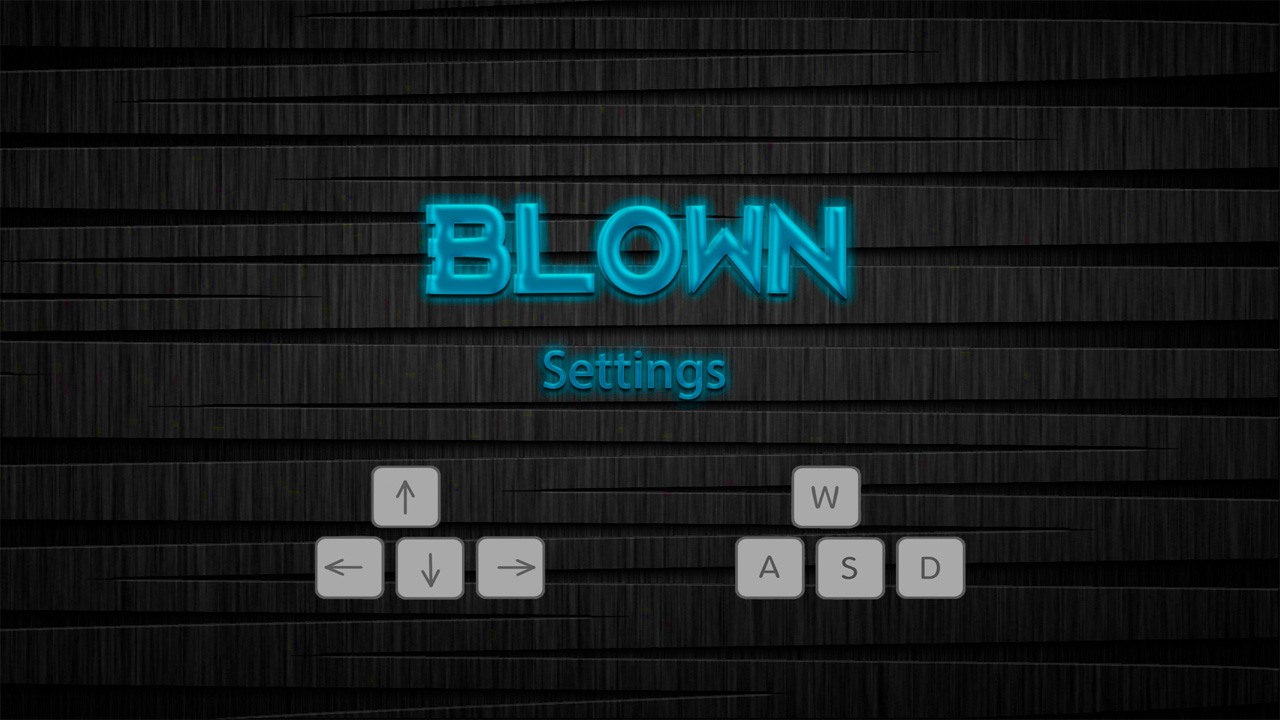
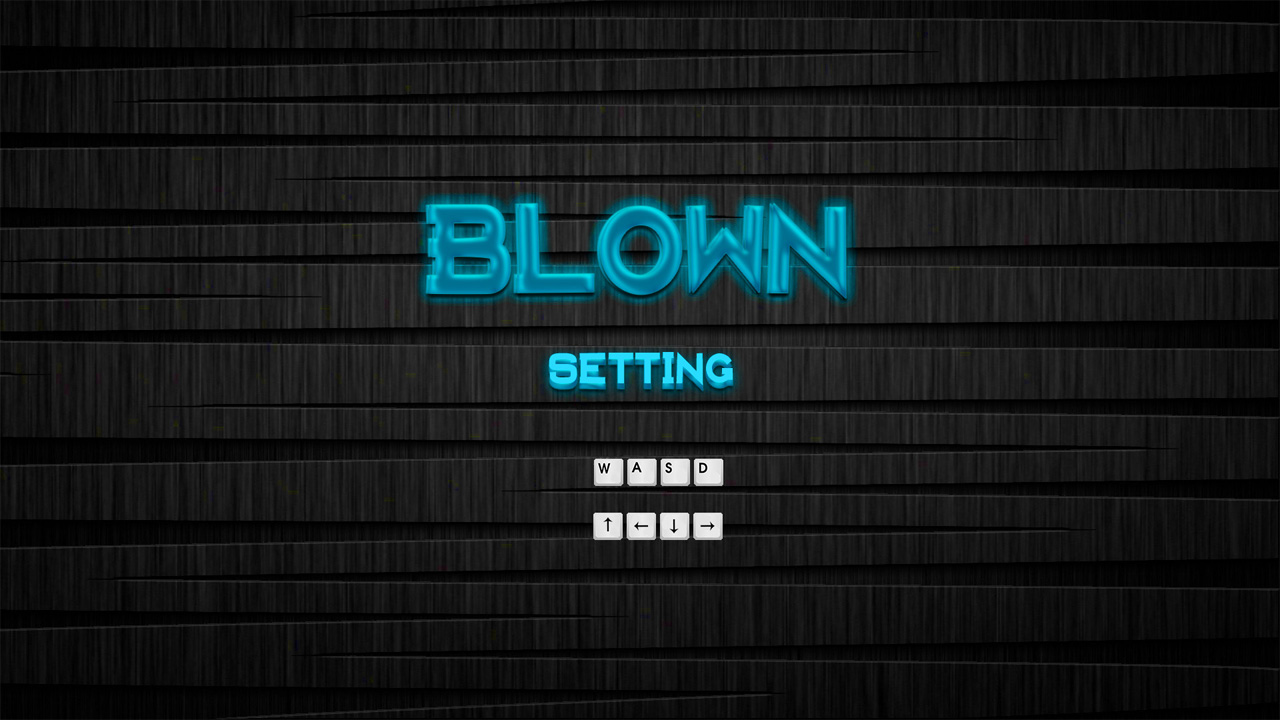
setting and statistic change images

diff --git a/src/main/resources/styles/setting.css b/src/main/resources/styles/setting.css
@@ -6,29 +6,3 @@
 .root {
      -fx-background-image: url("/images/setting.jpg");
 }
-.button {
-    -fx-font-family:AVENTURA;
-    -fx-font-size:100pt;
-    -fx-padding: 8 15 15 15;
-    -fx-background-insets: 0,0 0 5 0, 0 0 6 0, 0 0 7 0;
-    -fx-background-radius: 8;
-    -fx-background-color:
-       linear-gradient(from 0% 93% to 0% 100%, #06495C 0%, #06495C 100%),
-       #007090,
-       #007090,
-       radial-gradient(center 50% 50%, radius 100%, #007090, #007090);
-    -fx-effect: dropshadow( gaussian , rgba(0,0,0,0.75) , 4,0,0,1 );
-    -fx-font-weight: bold;
-    -fx-font-size: 1.1em;
-}
-.button:hover {
-    -fx-background-color:
-        linear-gradient(from 0% 93% to 0% 100%, #007090 0%, #007090 100%),
-        #007090,
-        #007090,
-        radial-gradient(center 50% 50%, radius 100%, #12A4CC, #12A4CC);
-}
-.button:pressed {
-    -fx-padding: 10 15 13 15;
-    -fx-background-insets: 2 0 0 0,2 0 3 0, 2 0 4 0, 2 0 5 0;
-}

diff --git a/src/main/java/start/Setting.java b/src/main/java/start/Setting.java
@@ -1,15 +1,20 @@
 package start;
 
-import javafx.event.Event;
+
+import controllers.SettingController;
 import javafx.event.EventHandler;
-import javafx.event.EventType;
+import javafx.fxml.FXML;
 import javafx.fxml.FXMLLoader;
 import javafx.scene.Parent;
 import javafx.scene.Scene;
+import javafx.scene.control.RadioButton;
 import javafx.scene.input.KeyCode;
 import javafx.scene.input.KeyEvent;
 
+import java.io.File;
+import java.io.FileNotFoundException;
 import java.io.IOException;
+import java.io.PrintWriter;
 
 /**
  * Created by Егор on 29.02.2016.
@@ -38,6 +43,17 @@ public class Setting {
         sceneSetting.setOnKeyPressed(new EventHandler<KeyEvent>() {
             public void handle(KeyEvent event) {
                 if(event.getCode()== KeyCode.ESCAPE){
+//                    String radioBtn = new SettingController().checkRadioBtn();
+//                    System.out.println(radioBtn);
+//                    try {
+//
+//                        PrintWriter writer = new PrintWriter(new File("/files/setting.txt"));
+//                        writer.write(radioBtn);
+//                        writer.close();
+//                    } catch (FileNotFoundException e) {
+//                        System.out.println("рпоблемы при записи в файл");
+//                    }
+
                     Parent root = null;
                     try {
                         root = FXMLLoader.load(getClass().getResource("/fxml/main.fxml"));

diff --git a/src/main/java/start/MainApp.java b/src/main/java/start/MainApp.java
@@ -4,9 +4,7 @@ package start;
  * Created by 4 on 28.02.2016.
  */
 import javafx.application.Application;
-import javafx.event.Event;
 import javafx.event.EventHandler;
-import javafx.event.EventType;
 import javafx.fxml.FXMLLoader;
 import javafx.scene.Parent;
 import javafx.scene.Scene;
@@ -24,20 +22,21 @@ public class MainApp extends Application {
         Parent root = FXMLLoader.load(getClass().getResource("/fxml/main.fxml"));
         Scene scene = new Scene(root, 1280, 670);
 
-
+        stage.setMinWidth(1280);
+        stage.setMinHeight(670);
         primaryStage.setResizable(false);
         scene.getStylesheets().add("/styles/main.css");
         stage.setTitle("BLOWN");
         stage.setScene(scene);
 
 
-        scene.setOnKeyPressed(new EventHandler<KeyEvent>() {
-            public void handle(KeyEvent event) {
-                if(event.getCode()== KeyCode.ESCAPE){
-                    System.exit(0);
-                }
-            }
-        });
+//        scene.setOnKeyPressed(new EventHandler<KeyEvent>() {
+//            public void handle(KeyEvent event) {
+//                if(event.getCode()== KeyCode.ESCAPE){
+//                    System.exit(0);
+//                }
+//            }
+//        });
         stage.show();
     }
 

diff --git a/src/main/java/controllers/SettingController.java b/src/main/java/controllers/SettingController.java
@@ -1,7 +1,26 @@
 package controllers;
 
+import javafx.event.Event;
+import javafx.event.EventType;
+import javafx.fxml.FXML;
+import javafx.scene.Group;
+import javafx.scene.control.RadioButton;
+import javafx.scene.control.ToggleGroup;
+
+import java.awt.event.ActionEvent;
+
 /**
  * Created by Егор on 29.02.2016.
  */
 public class SettingController {
+    @FXML
+    RadioButton radioBtnLeft;
+    @FXML
+    RadioButton radioBtnRight;
+    @FXML
+    ToggleGroup group;
+
+
+    public void checkRadio(ActionEvent actionEvent) {
+    }
 }

diff --git a/src/main/java/start/Statistic.java b/src/main/java/start/Statistic.java
@@ -32,6 +32,8 @@ public class Statistic {
         sceneStatistic.getStylesheets().add("/styles/statistic.css");
         MainApp.stage.setTitle("BLOWN");
         MainApp.stage.setScene(sceneStatistic);
+//        System.out.println(sceneStatistic.getWidth() + " " + sceneStatistic.getHeight());
+//        System.out.println(MainApp.stage.getWidth() + " " + MainApp.stage.getHeight());
 
         sceneStatistic.setOnKeyPressed(new EventHandler<KeyEvent>() {
             public void handle(KeyEvent event) {

diff --git a/src/main/java/controllers/MainController.java b/src/main/java/controllers/MainController.java
@@ -1,6 +1,10 @@
 package controllers;
 
 import javafx.event.ActionEvent;
+import javafx.event.Event;
+import javafx.event.EventHandler;
+import javafx.scene.input.KeyCode;
+import javafx.scene.input.KeyEvent;
 import start.Setting;
 import start.Statistic;
 
